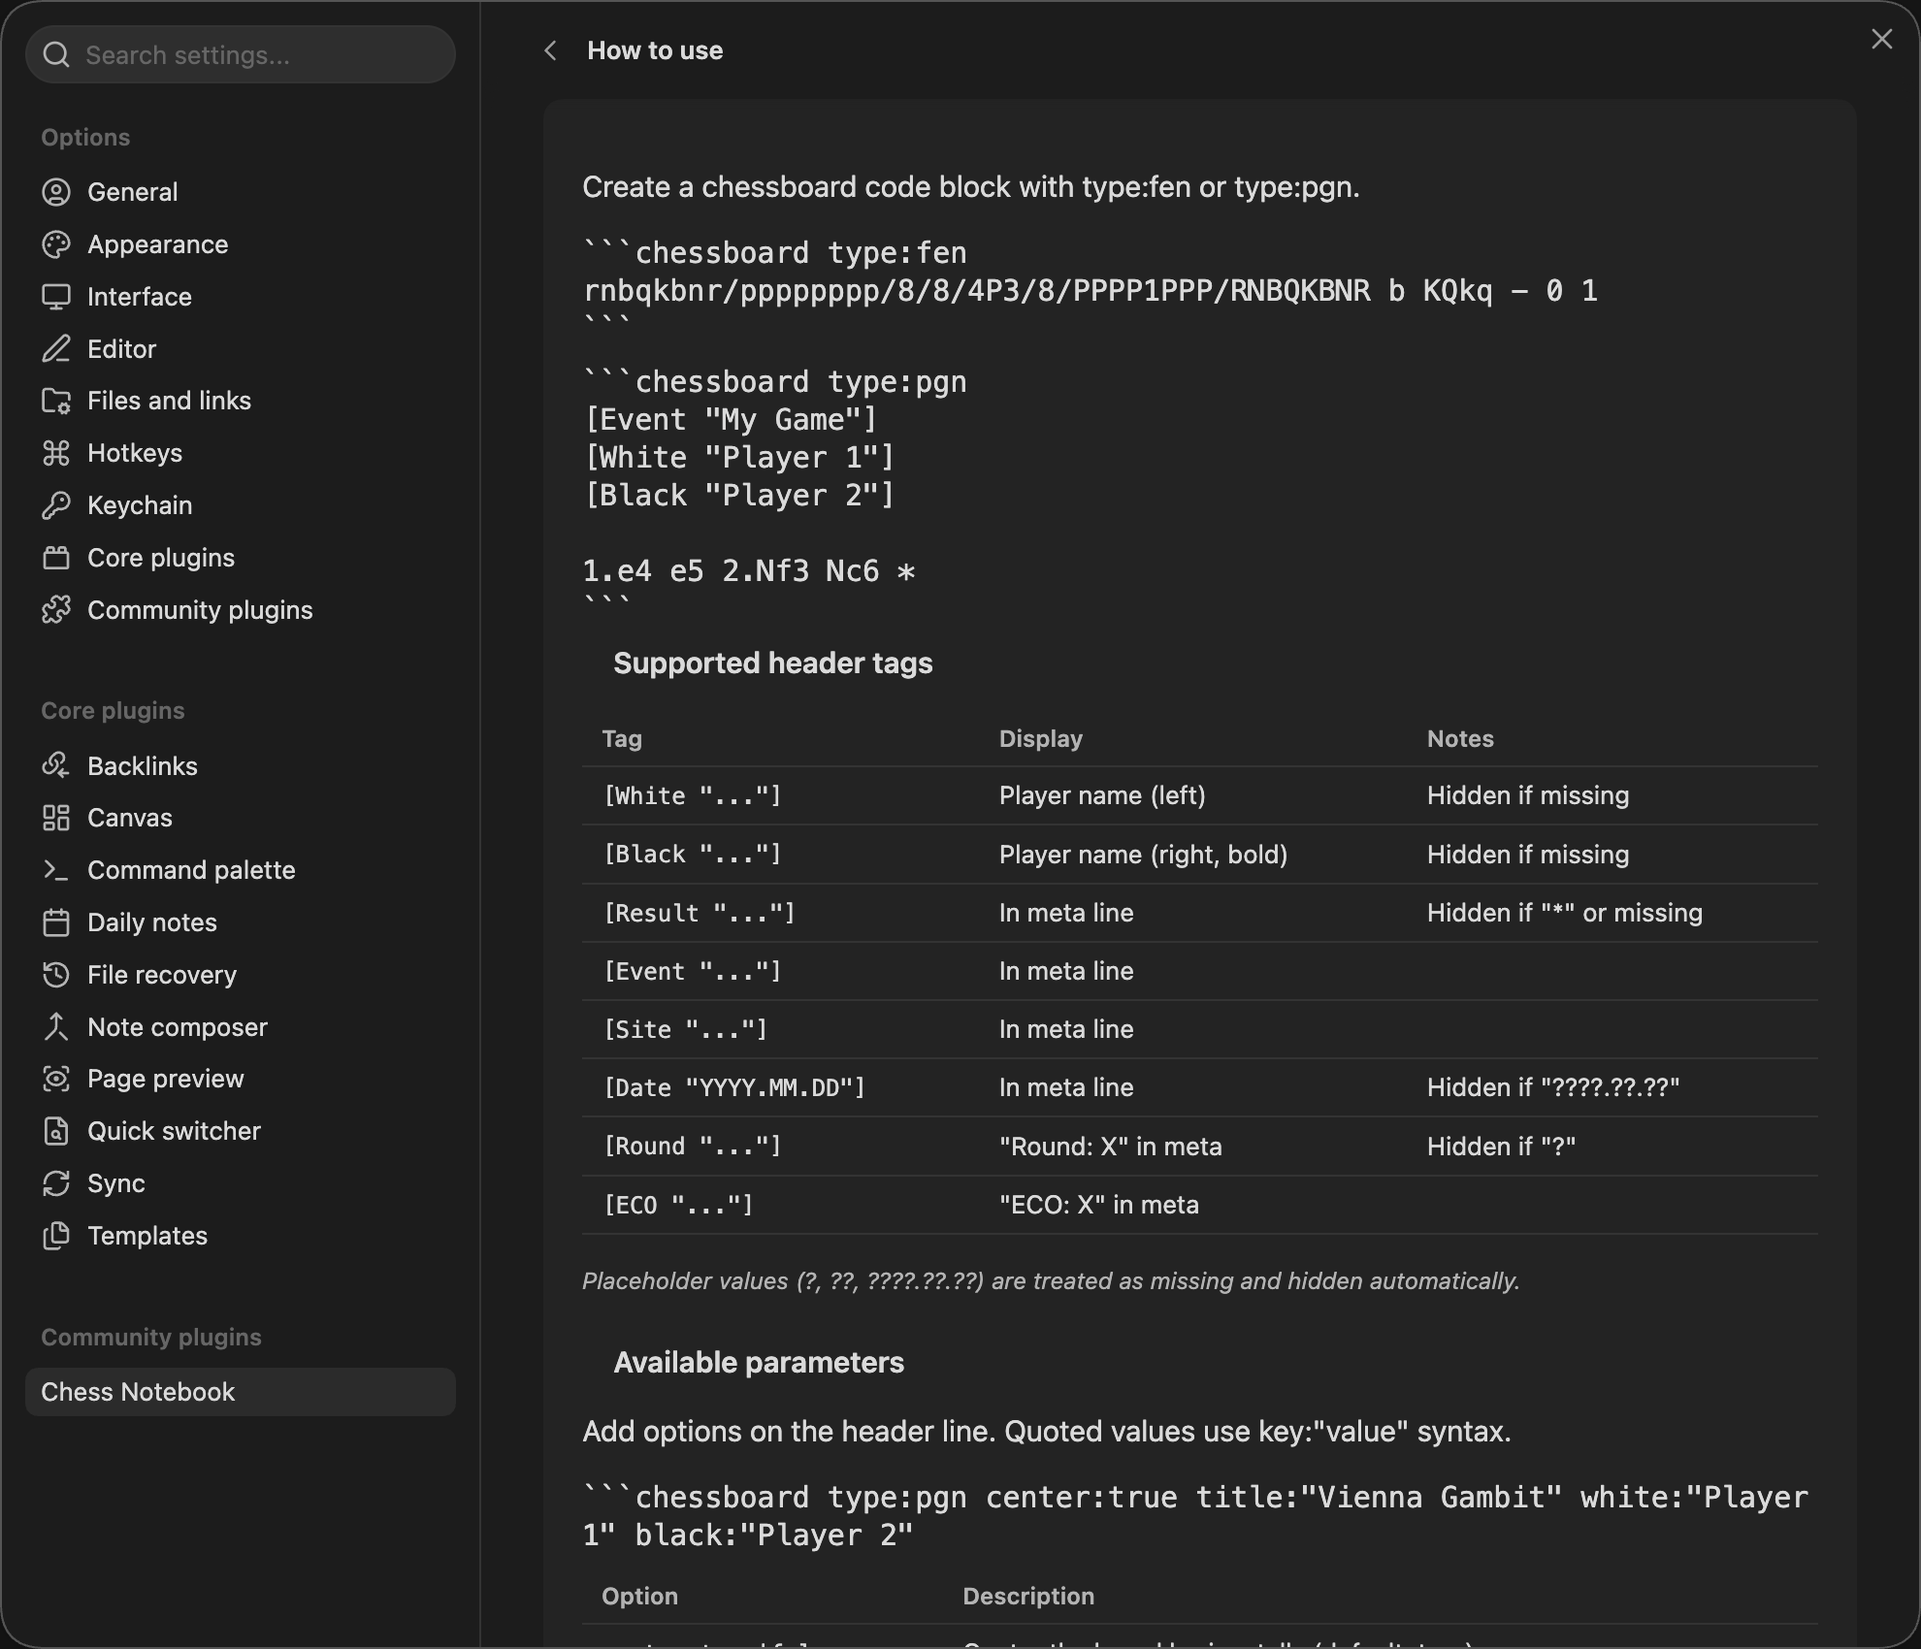
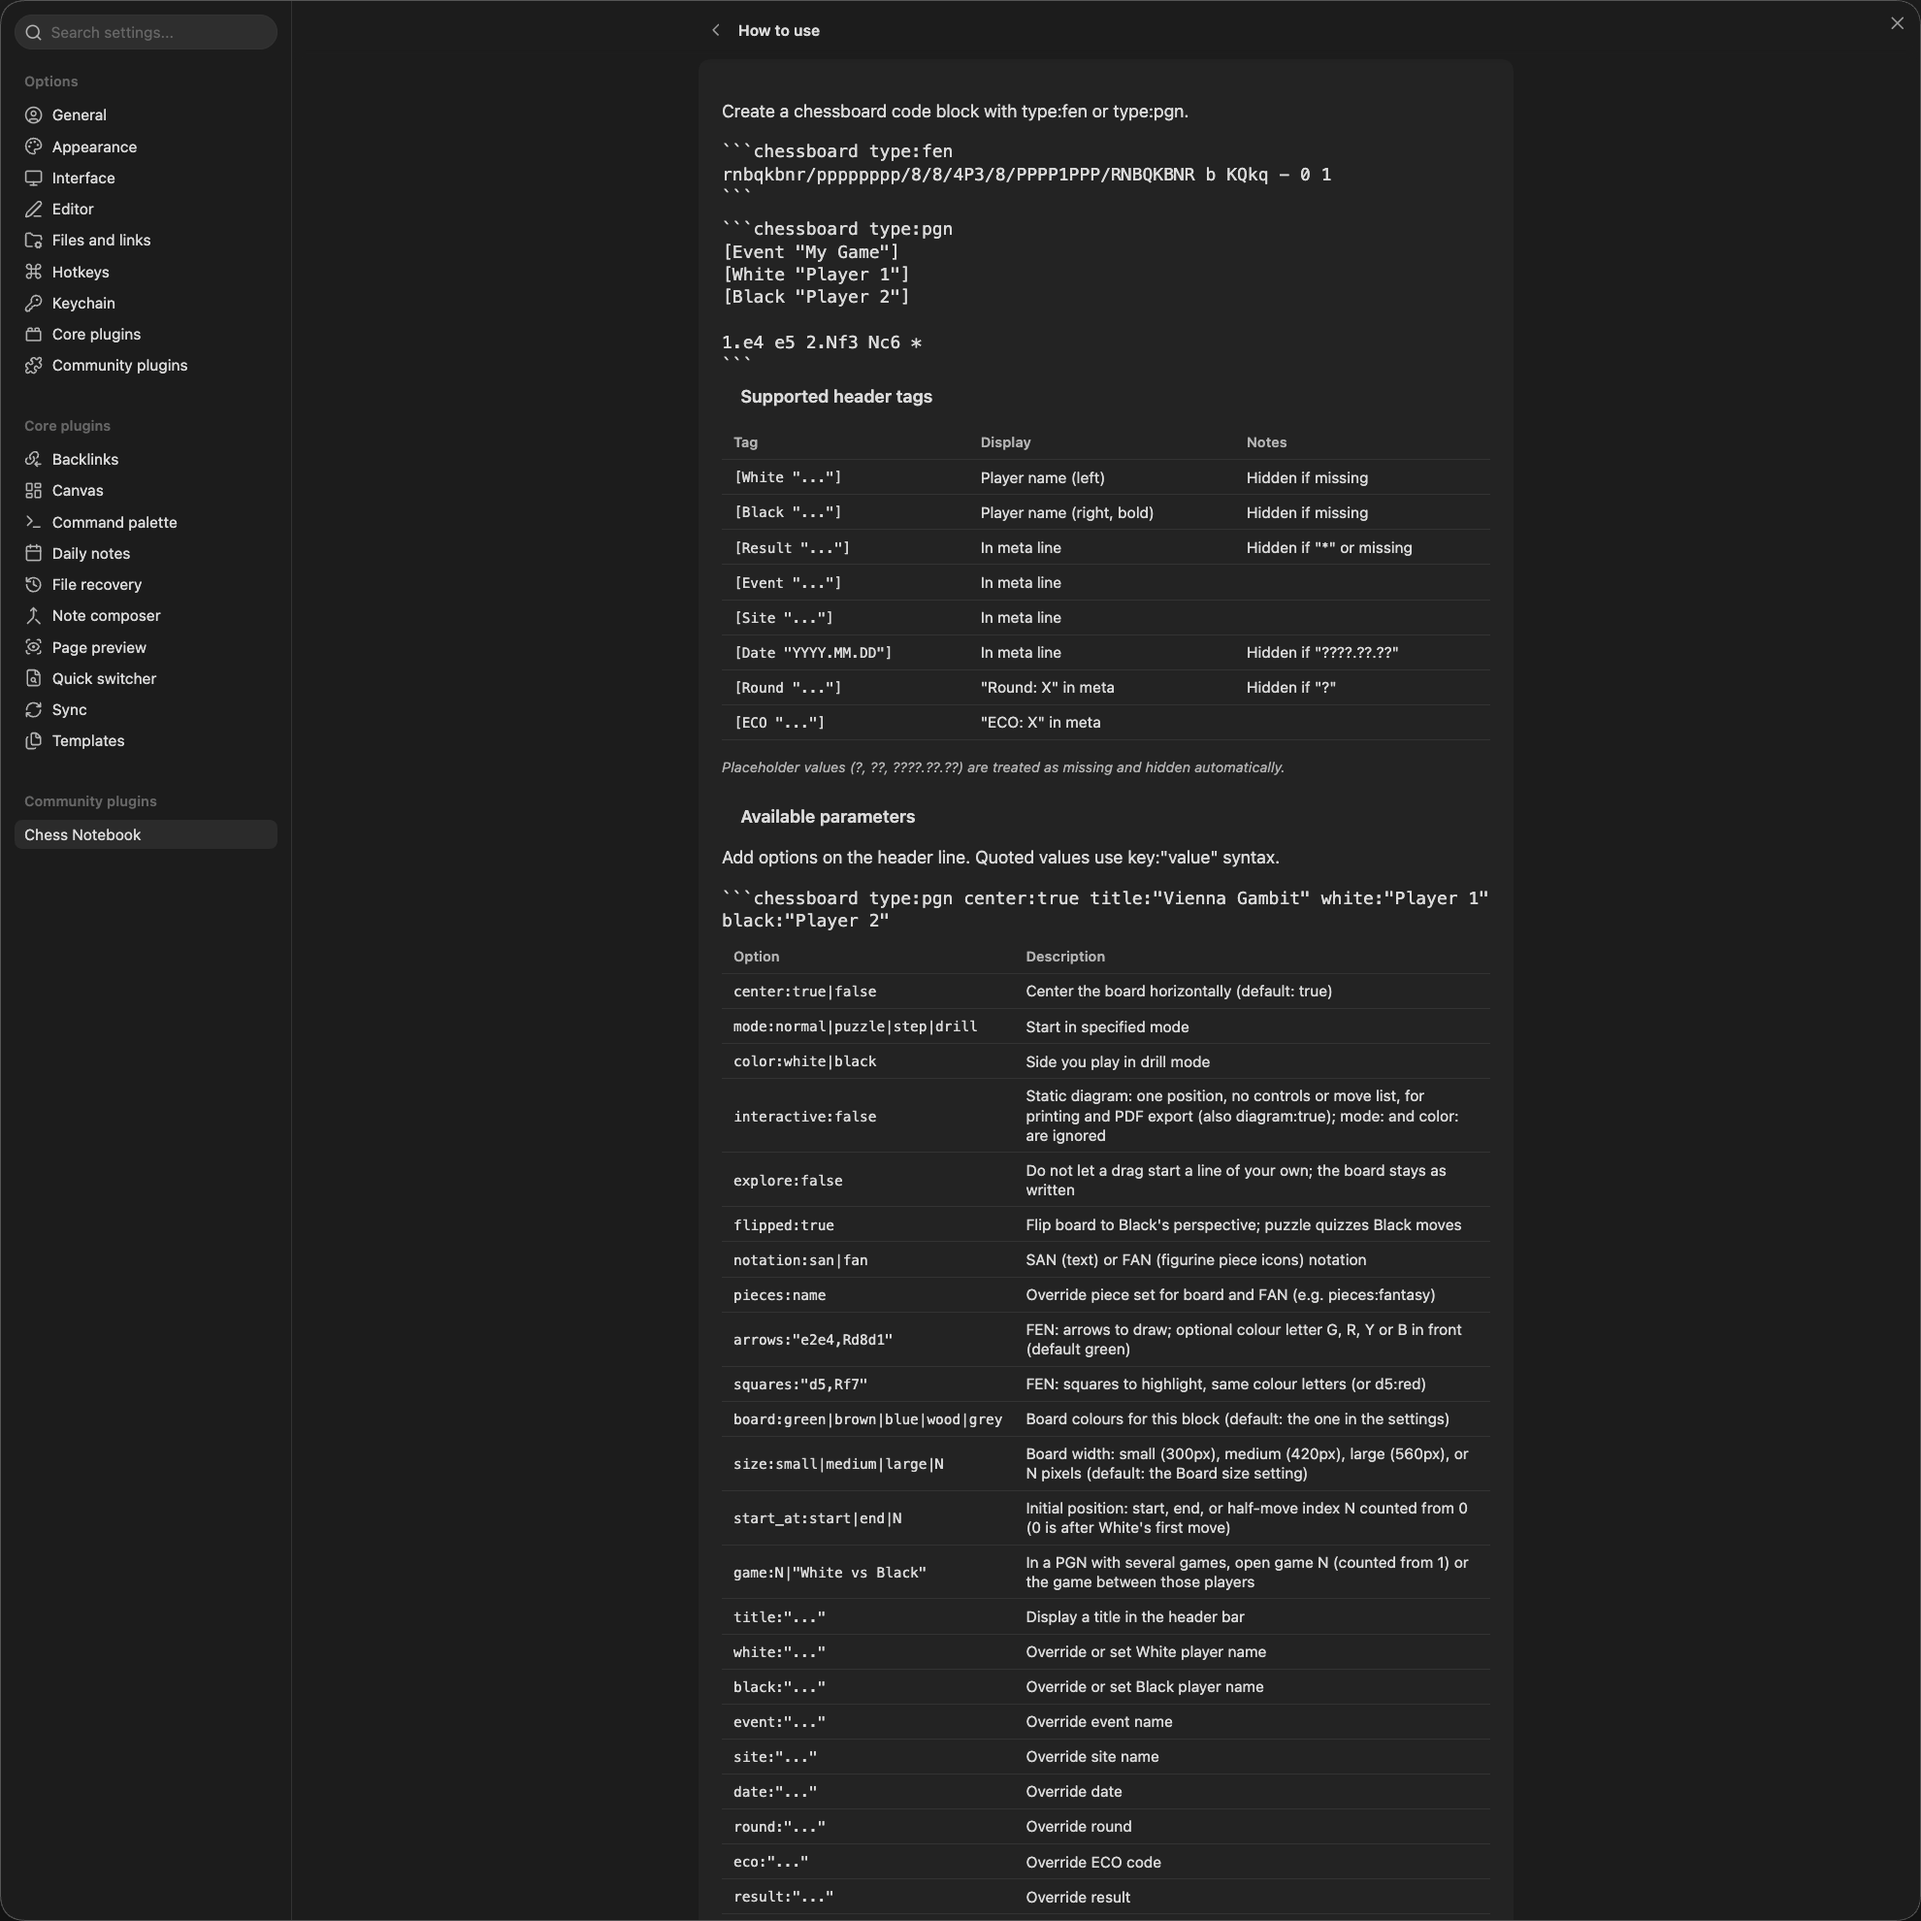
[docs/readme-1-1-0] Docs: describe drawings, draw badge, check glow and puzzle report; recapture puzzle and settings media (#131)
README gains sections for [%cal]/[%csl] drawings with their move-list dots, check glow and the draw badge, and the puzzle report with drawings hidden until solved. manifest.json description now covers the newer features. puzzle.gif, settings.png and settings-how-to-use.png recaptured in real Obsidian on current main.

diff --git a/README.md b/README.md
@@ -52,6 +52,22 @@ Paste a PGN and get a board with a header (players, event, site, date, ECO, resu
 
 A `[FEN "..."]` tag starts the game from that position instead of the opening position.
 
+### Arrows and squares in PGN comments
+
+A comment can draw on the board with `[%cal]` (arrows) and `[%csl]` (squares), the same commands game sites and study tools export. The drawings show while that move is on the board and go when you move on. Each entry is a colour letter (`G` green, `R` red, `Y` yellow, `B` blue) and the squares: `[%cal Ge2e4,Rd8d1]` draws a green arrow e2 to e4 and a red one d8 to d1, `[%csl Rf7,Ye5]` marks f7 red and e5 yellow. The commands are taken out of the comment text. A move whose comment holds nothing but drawings gets a small dot in the move list, so you can tell it has something to look at; hover it for the tooltip.
+
+````markdown
+```chessboard type:pgn
+1.e4 e5 2.Nf3 Nc6 3.Bc4 {[%csl Rf7][%cal Rc4f7]} Bc5 {Both sides develop.} *
+```
+````
+
+In puzzle and drill mode the drawings stay hidden while you solve, since a study often draws the answer on the move before it. They come back when the puzzle is solved or the drill line ends.
+
+### Check and draws
+
+A king in check has a red glow on its square. When the position on the board is a draw, a "1/2" badge by the board names the reason: stalemate, insufficient material, the 75-move rule or fivefold repetition, which end the game on their own, and threefold repetition or the fifty-move rule, shown as "1/2 claimable: threefold repetition" because a player has to claim those.
+
 ### Eval bar and clocks
 
 Games exported from game sites carry `[%eval 0.35]` / `[%eval #3]` and `[%clk 0:03:00]` in their comments. These are taken out of the comment text: an eval bar beside the board shows the evaluation after each move (mate scores fill the bar for the side that mates), and each side's clock shows above and below the board as you step through. Both are hidden when the PGN has none. Nothing is computed: only what the PGN already contains is shown.
@@ -125,7 +141,7 @@ A static diagram has no modes: `mode:` and `color:` are ignored, so `mode:puzzle
 
 Puzzle mode hides the moves. Play the next move on the board; picking up a piece puts a dot on each square it can move to (a ring on a piece it can take). A right move is played and the reply is made for you, a wrong one is undone. Each press of Hint shows a little more: the comment on the move to find (when it has one), then the piece to move, then the move as an arrow. With `flipped:true` the board is shown from Black's side and you play Black's moves.
 
-![Solving the finish of the Opera Game with the help of a hint](docs/media/puzzle.gif)
+![Solving the finish of the Opera Game with a wrong try, a hint and the report at the end](docs/media/puzzle.gif)
 
 ````markdown
 ```chessboard type:pgn mode:puzzle title:"Find Morphy's finish"
@@ -139,6 +155,8 @@ Puzzle mode hides the moves. Play the next move on the board; picking up a piece
 ````
 
 You can also switch any board into puzzle mode with the puzzle button under it.
+
+While a puzzle is unsolved, the moves you have not found, the eval bar and any `[%cal]`/`[%csl]` drawings stay hidden, so nothing gives the answer away. When the last move is found, a report under the controls shows the moves played and the mistakes made, with a button for each missed move that takes the board to it. Reset starts the puzzle again with a clean count.
 
 ### Reviewing every puzzle in the vault
 
@@ -270,7 +288,7 @@ The settings tab has a How to use page, a quick reference for blocks, header tag
 - **Square labels**: label each square for screen readers with its piece (off by default).
 - **Render chess / pgn / fen blocks**: which of the extra code block names render as boards (all off by default). Reload Obsidian after changing one.
 
-<img src="docs/media/settings.png" width="420" alt="The settings tab with its How to use page, auto-play speed and piece set">
+<img src="docs/media/settings.png" width="420" alt="The settings tab with its Board, Playback, Board and pieces, Sound and accessibility and Code blocks groups">
 <img src="docs/media/settings-how-to-use.png" width="420" alt="The How to use page with example blocks, the header tags table and the options">
 
 ## Options
@@ -308,7 +326,7 @@ Header tags White, Black, Result, Event, Site, Date, Round and ECO show in the h
 
 ## Controls
 
-Under the board: puzzle mode, step mode, hint, reset, flip, auto-play, first/previous/next/last move, copy FEN (the position on the board) and copy PGN. FEN sequences have copy FEN too.
+Under the board: puzzle mode, step mode, hint, reset, flip, auto-play, first/previous/next/last move, copy FEN (the position on the board) and copy PGN. FEN sequences have copy FEN too. The command palette also has **Paste a chess position or game as a board** and **Review puzzles from the vault**.
 
 ## Installation
 
